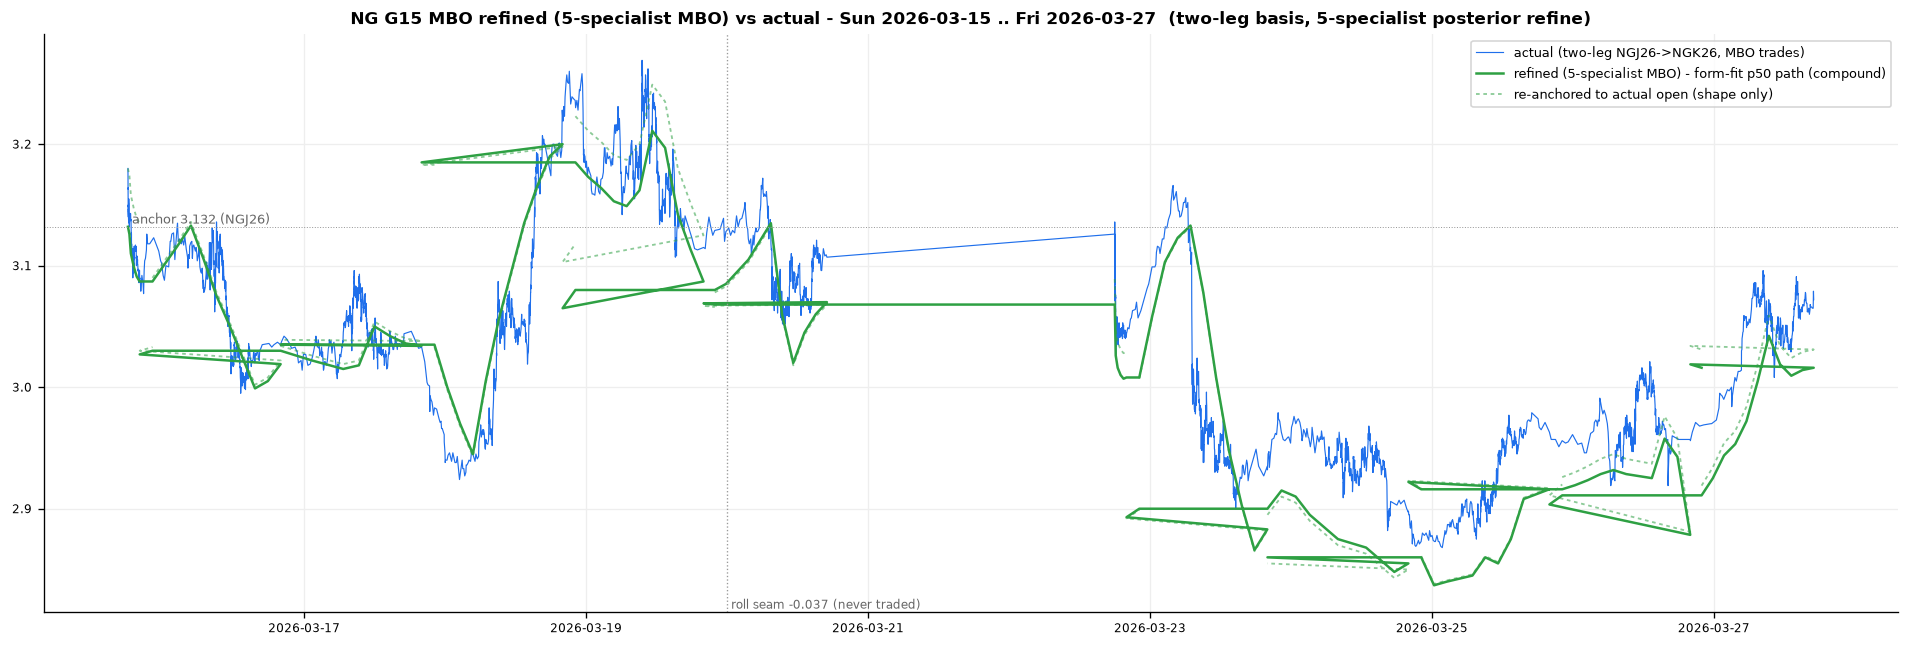
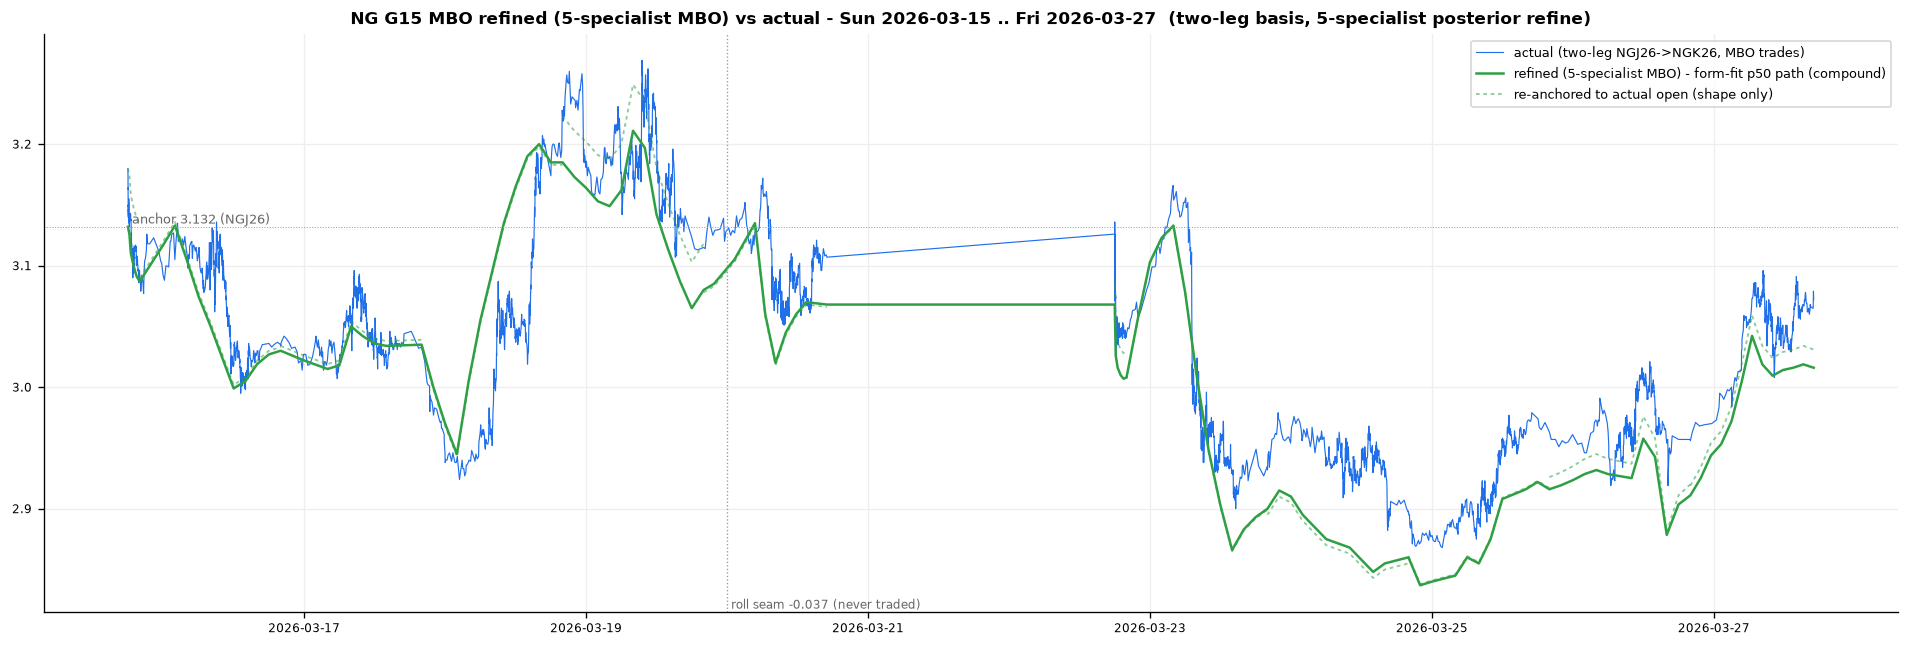
S103: fix form-fit render squiggle - unwrap the 2-hourly path clock
The p50 path grid runs 20->22->00->..->16->18->20 (wraps past midnight). The
(hour-18)%24 x-mapping sent the post-midnight tail back to the left edge, so the
line doubled back horizontally across each day (the squiggle artifact). Unwrap
the clock (add 24h whenever it decreases) so session time is monotonic. Score
unchanged (blind 9/12/526, refined 12/12/72); shape now tracks cleanly.

Claude-Session: https://claude.ai/code/session_015Tqk9odPv7F7CE4AFxKRLR

diff --git a/research/kalshi/coordinate_g15_mbo.py b/research/kalshi/coordinate_g15_mbo.py
@@ -161,14 +161,20 @@ def main():
 
     def _curve_pts(curve):
         """normalize a [[et_hour, cum_from_open_usd], ...] path curve to (hpos, cum) arrays.
-        hpos = hours since the 18:00 ET reopen (wraps 0..~23), so the shape lands at the right x."""
+        hpos = hours since the 18:00 ET reopen, UNWRAPPED so time is monotonic across the whole
+        session (the 2-hourly grid runs 20->..->16->18->20, wrapping past midnight; without unwrap the
+        post-midnight tail maps back to the left edge and the line doubles back on itself)."""
         if not isinstance(curve, list) or not curve:
             return None
-        hh, cc = [], []
+        hh, cc, off, prev = [], [], 0.0, None
         for pt in curve:
             if not (isinstance(pt, (list, tuple)) and len(pt) >= 2):
                 continue
-            hh.append((float(pt[0]) - 18.0) % 24.0); cc.append(float(pt[1]))
+            h = float(pt[0])
+            if prev is not None and h < prev:      # clock wrapped past 24h -> keep time increasing
+                off += 24.0
+            prev = h
+            hh.append(h + off); cc.append(float(pt[1]))
         if len(hh) < 2:
             return None
         return np.asarray(hh), np.asarray(cc)
